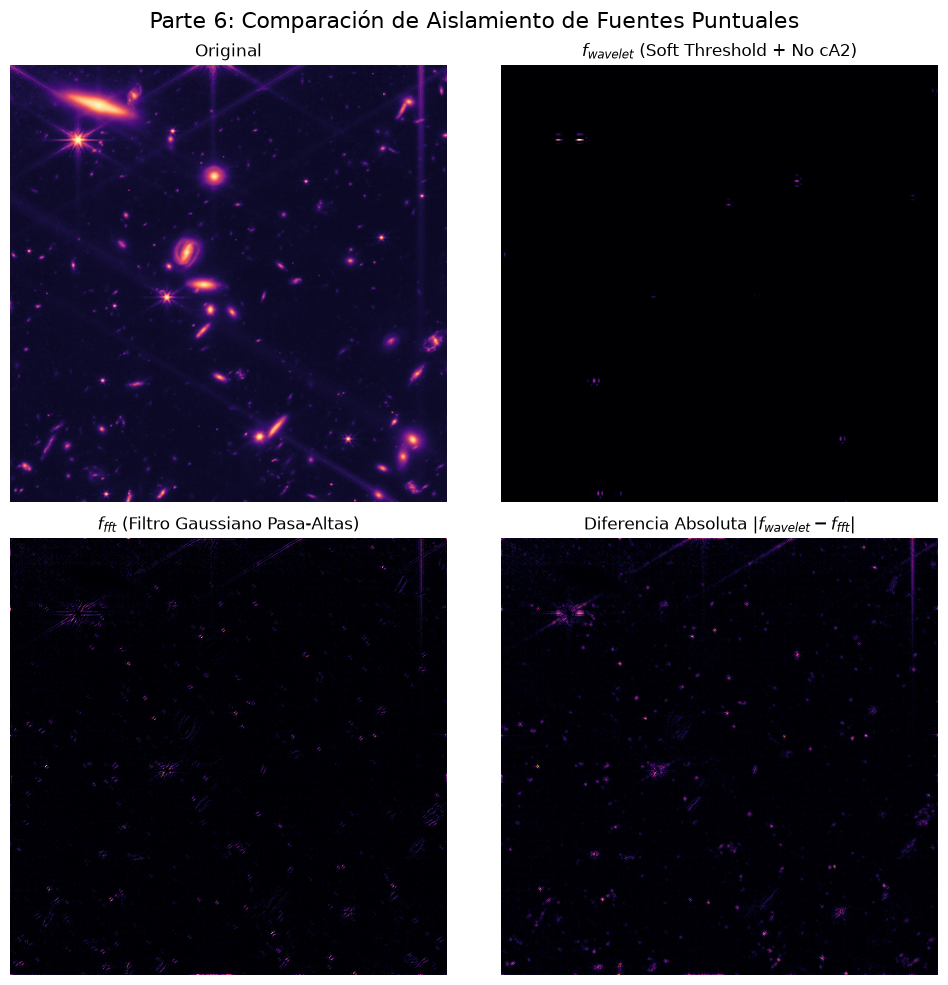
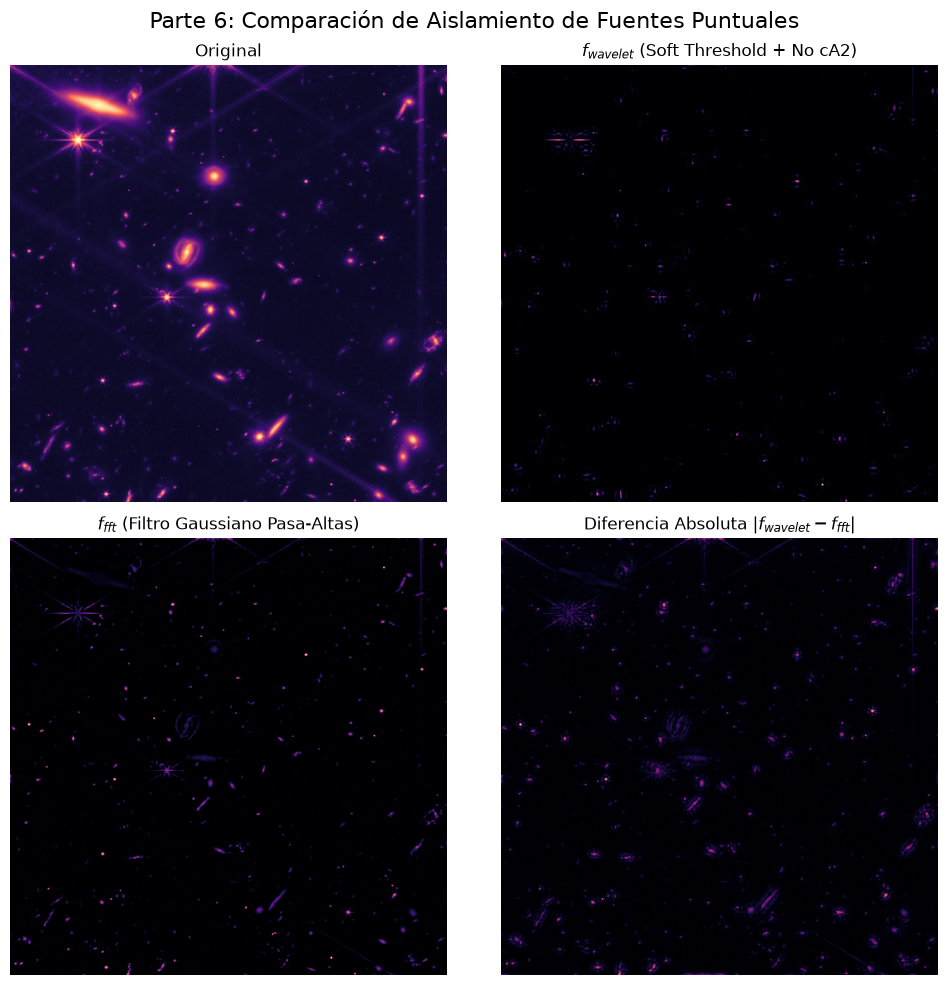
Editar parametros para mejorar visualizacion

diff --git a/punto2.py b/punto2.py
@@ -1,8 +1,8 @@
 import numpy as np
 import matplotlib
-matplotlib.use('Agg') # Agrega esta línea para que funcione en Codespaces
+matplotlib.use('Agg') # Modo Headless
 import matplotlib.pyplot as plt
-import pywt
+import pywt #libreria de Wavelets de Python
 from skimage import io, color
 from skimage.transform import resize
 
@@ -13,7 +13,7 @@ nombre_archivo = 'webb.png'
 img_original = io.imread(nombre_archivo)
 
 if img_original.ndim == 3:
-    # Si tiene 4 canales (RGBA, típico en PNG), nos quedamos solo con los 3 primeros (RGB)
+    # Si tiene 4 canales, nos quedamos solo con los 3 primeros (RGB)
     if img_original.shape[-1] == 4:
         img_original = img_original[:, :, :3]
         
@@ -38,8 +38,10 @@ wavelet_type = 'db4' # Puede ser 'bior2.2', 'db2' o 'db4'
 L = 2
 
 # Descomposición Wavelet a nivel 2
-coeffs = pywt.wavedec2(img, wavelet_type, level=L)
+coeffs = pywt.wavedec2(img, wavelet_type, level=L) #separar en subbandas
 cA2, (cH2, cV2, cD2), (cH1, cV1, cD1) = coeffs
+#cA2: Aproximacion (las frecuencias más bajas, el fondo borroso de la imagen)
+#cH, cV, cD: Detalles horizontales, verticales y diagonales (las altas frecuencias como bordes agudos y estrellas).
 
 # Visualización de subbandas (Aproximación y Detalles L=2)
 fig, axs = plt.subplots(2, 2, figsize=(8, 8))
@@ -60,11 +62,11 @@ print("Gráfico de la Parte 2 guardado.")
 
 # PARTE 3: 2D-FFT (Transformada de Fourier)
 
-F = np.fft.fft2(img)
+F = np.fft.fft2(img) #calcula transformada rápida de fourier en 2D
 F_shift = np.fft.fftshift(F) # Centrar el espectro
 
-mag_spectrum = np.log1p(np.abs(F_shift))
-phase_spectrum = np.angle(F_shift)
+mag_spectrum = np.log1p(np.abs(F_shift)) # de magnitud: indica "cuanto" hay de cada freceuncia. En escala logarítmica porque la energía suele concentrarse masivamente en el centro
+phase_spectrum = np.angle(F_shift) #de fase: contiene la información sobre "dónde" están las cosas (la estructura geométrica)
 
 fig, axs = plt.subplots(1, 2, figsize=(12, 5))
 axs[0].imshow(mag_spectrum, cmap='magma')
@@ -87,17 +89,21 @@ def soft_threshold(w, lam):
 
 # Aplicar umbralizado a los coeficientes de detalle
 # El valor lambda (lam) depende de la intensidad de la imagen
-lam = 0.5 
+lam = 0.1
 details_mod = []
 for level_details in coeffs[1:]:
     cH, cV, cD = level_details
     details_mod.append((soft_threshold(cH, lam),
                         soft_threshold(cV, lam),
                         soft_threshold(cD, lam)))
+#Actúa como un filtro que silencia el ruido de fondo (Valores menores a lambda)
+#Reduce levemente picos altos, limpiando la señal.
 
 # 3. Reconstrucción mediante 2D-IDWT
 coeffs_mod = [cA2_mod] + details_mod
 f_wavelet = pywt.waverec2(coeffs_mod, wavelet_type)
+#Utiliza la TransformadaInversa Wavelet con los coeficientes modificados
+#para generar la imagen final (f_wavelet), que ahora debería contener solo los puntos brillantes aislados.
 
 # PARTE 5: Aislamiento con 2D-FFT
 rows, cols = img.shape
@@ -107,8 +113,8 @@ v = np.arange(cols) - ccol
 U, V = np.meshgrid(v, u)
 
 # 1. Diseñar Filtro Pasa-Altas Gaussiano
-D2 = U*2 + V*2
-D0 = 15.0 # Radio de corte (ajustable)
+D2 = U**2 + V**2
+D0 = 40.0 # Radio de corte (ajustable)
 H = 1 - np.exp(-D2 / (2 * D0**2))
 
 # 2. Filtrado y Transformada Inversa
